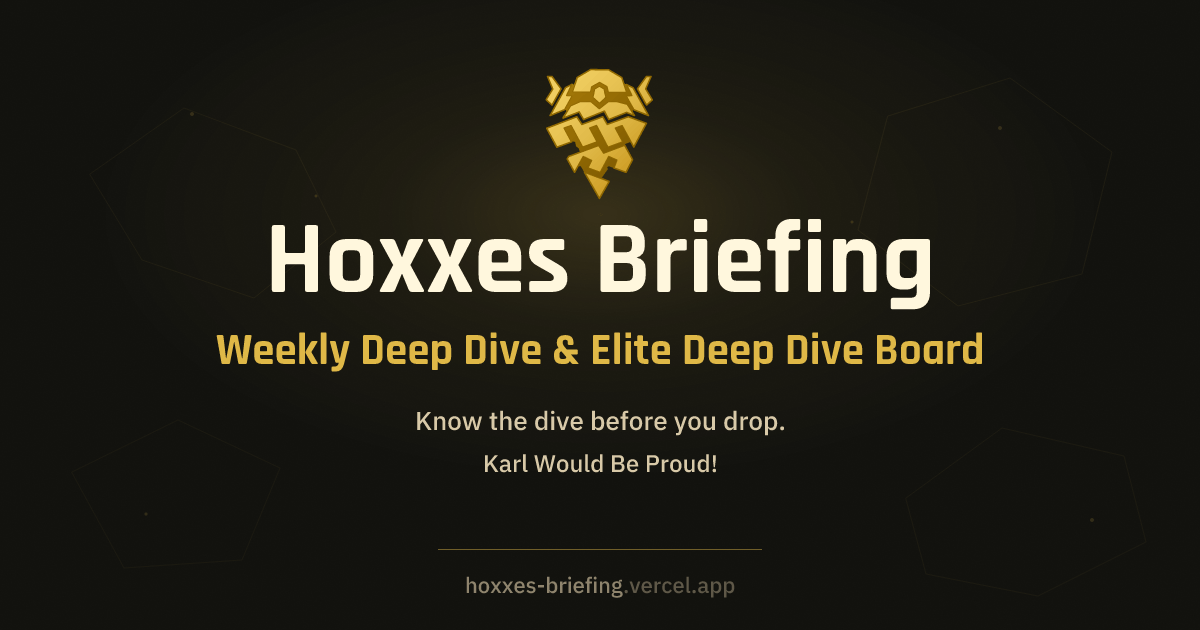
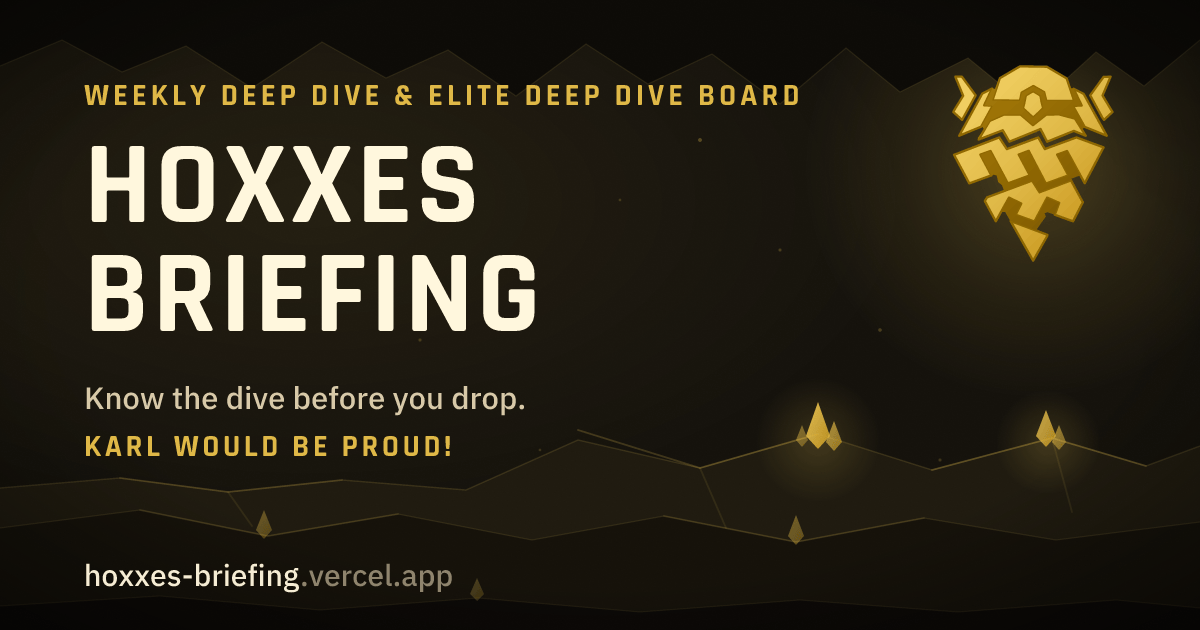
feat(web): redesign og-image as cave strata composition

diff --git a/apps/web/scripts/generate-og-image.ts b/apps/web/scripts/generate-og-image.ts
@@ -7,12 +7,13 @@ import satori from 'satori'
 
 const width = 1200
 const height = 630
-const background = '#11110d'
+const background = '#14110b'
 const textPrimary = '#fff7dd'
 const textSecondary = '#d8c9a8'
 const textMuted = '#8f846d'
-const textFaint = '#5f5848'
 const gold = '#dfb847'
+const goldBright = '#f0ce61'
+const goldDeep = '#c9971d'
 const parchment = '#f5ecd4'
 const rajdhani = 'Rajdhani'
 const ibmPlexSans = 'IBM Plex Sans'
@@ -53,7 +54,6 @@ const [rajdhaniBold, plexMedium, emblemSvg] = await Promise.all([
 ])
 
 const emblemSrc = svgDataUri(emblemSvg)
-const backgroundSrc = svgDataUri(renderBackgroundTexture())
 const svg = await satori(renderOpenGraphImage(emblemSrc) as Parameters<typeof satori>[0], {
   width,
   height,
@@ -108,127 +108,140 @@ function renderOpenGraphImage(emblemSrc: string): SatoriElement {
       },
     },
     h('img', {
-      src: backgroundSrc,
+      src: svgDataUri(renderCaveTexture()),
       width,
       height,
-      style: {
-        position: 'absolute',
-        left: 0,
-        top: 0,
-        display: 'flex',
-      },
+      style: { position: 'absolute', left: 0, top: 0, display: 'flex' },
     }),
     h('img', {
       src: emblemSrc,
-      width: 112,
-      height: 132,
-      style: {
-        position: 'absolute',
-        top: 68,
-        left: 544,
-        display: 'flex',
-      },
+      width: 168,
+      height: 199,
+      style: { position: 'absolute', top: 64, left: 950, display: 'flex' },
     }),
     h(
       'div',
       {
         style: {
           position: 'absolute',
-          top: 214,
-          left: 0,
-          right: 0,
+          top: 80,
+          left: 84,
           display: 'flex',
           flexDirection: 'column',
-          alignItems: 'center',
         },
       },
       h(
         'div',
         {
           style: {
-            display: 'flex',
-            color: textPrimary,
-            fontFamily: rajdhani,
-            fontSize: 104,
-            lineHeight: 0.92,
-          },
-        },
-        title,
-      ),
-      h(
-        'div',
-        {
-          style: {
-            marginTop: 18,
             display: 'flex',
             color: gold,
             fontFamily: rajdhani,
-            fontSize: 45,
+            fontWeight: 700,
+            fontSize: 31,
+            letterSpacing: 4,
             lineHeight: 1,
+            whiteSpace: 'nowrap',
           },
         },
-        subtitle,
+        subtitle.toUpperCase(),
       ),
       h(
         'div',
         {
           style: {
-            marginTop: 30,
+            marginTop: 22,
             display: 'flex',
             flexDirection: 'column',
-            alignItems: 'center',
-            color: textSecondary,
-            fontFamily: ibmPlexSans,
-            fontSize: 26,
-            lineHeight: 1.32,
+            color: textPrimary,
+            fontFamily: rajdhani,
+            fontWeight: 700,
+            fontSize: 118,
+            lineHeight: 0.92,
+            letterSpacing: 3,
           },
         },
-        h('div', { style: { display: 'flex', fontSize: 26 } }, description),
-        h('div', { style: { display: 'flex', marginTop: 10, fontSize: 24 } }, slogan),
+        ...title
+          .toUpperCase()
+          .split(' ')
+          .map((line) => h('div', { style: { display: 'flex' } }, line)),
+      ),
+      h(
+        'div',
+        {
+          style: {
+            marginTop: 26,
+            display: 'flex',
+            flexDirection: 'column',
+          },
+        },
+        h(
+          'div',
+          { style: { display: 'flex', fontFamily: ibmPlexSans, fontSize: 31, color: textSecondary, lineHeight: 1.3 } },
+          description,
+        ),
+        h(
+          'div',
+          {
+            style: {
+              marginTop: 14,
+              display: 'flex',
+              color: gold,
+              fontFamily: rajdhani,
+              fontWeight: 700,
+              fontSize: 31,
+              letterSpacing: 3.5,
+              lineHeight: 1,
+            },
+          },
+          slogan.toUpperCase(),
+        ),
       ),
     ),
-    h('div', {
-      style: {
-        position: 'absolute',
-        left: 438,
-        right: 438,
-        bottom: 80,
-        height: 1,
-        display: 'flex',
-        backgroundColor: 'rgba(223, 184, 71, 0.46)',
-      },
-    }),
     h(
       'div',
       {
         style: {
           position: 'absolute',
-          left: 0,
-          right: 0,
-          bottom: 34,
+          left: 84,
+          bottom: 40,
           display: 'flex',
-          justifyContent: 'center',
-          alignItems: 'center',
-          color: textMuted,
           fontFamily: ibmPlexSans,
-          fontSize: 22,
+          fontSize: 30,
           lineHeight: 1,
         },
       },
-      h('div', { style: { display: 'flex' } }, domainName),
-      h('div', { style: { display: 'flex', color: textFaint } }, domainSuffix),
+      h('div', { style: { display: 'flex', color: parchment } }, domainName),
+      h('div', { style: { display: 'flex', color: textMuted } }, domainSuffix),
     ),
   )
 }
 
-function renderBackgroundTexture(): string {
+function renderCaveTexture(): string {
   return `
 <svg xmlns="http://www.w3.org/2000/svg" width="${width}" height="${height}" viewBox="0 0 ${width} ${height}">
   <defs>
-    <radialGradient id="gold-glow" cx="50%" cy="34%" r="42%">
-      <stop offset="0%" stop-color="${gold}" stop-opacity="0.18"/>
-      <stop offset="42%" stop-color="${gold}" stop-opacity="0.06"/>
+    <radialGradient id="title-glow" cx="26%" cy="32%" r="50%">
+      <stop offset="0%" stop-color="${goldBright}" stop-opacity="0.07"/>
       <stop offset="100%" stop-color="${gold}" stop-opacity="0"/>
+    </radialGradient>
+    <radialGradient id="emblem-glow" cx="50%" cy="50%" r="50%">
+      <stop offset="0%" stop-color="${goldBright}" stop-opacity="0.24"/>
+      <stop offset="60%" stop-color="${gold}" stop-opacity="0.08"/>
+      <stop offset="100%" stop-color="${gold}" stop-opacity="0"/>
+    </radialGradient>
+    <radialGradient id="pocket-glow" cx="50%" cy="50%" r="50%">
+      <stop offset="0%" stop-color="${goldBright}" stop-opacity="0.16"/>
+      <stop offset="100%" stop-color="${gold}" stop-opacity="0"/>
+    </radialGradient>
+    <linearGradient id="crystal" x1="0" y1="0" x2="1" y2="1">
+      <stop offset="0%" stop-color="${goldBright}"/>
+      <stop offset="100%" stop-color="${goldDeep}"/>
+    </linearGradient>
+    <radialGradient id="vignette" cx="50%" cy="46%" r="74%">
+      <stop offset="0%" stop-color="#000000" stop-opacity="0"/>
+      <stop offset="62%" stop-color="#000000" stop-opacity="0"/>
+      <stop offset="100%" stop-color="#000000" stop-opacity="0.52"/>
     </radialGradient>
     <filter id="grain" x="0" y="0" width="100%" height="100%">
       <feTurbulence type="fractalNoise" baseFrequency="0.78" numOctaves="3" seed="27" stitchTiles="stitch"/>
@@ -239,24 +252,60 @@ function renderBackgroundTexture(): string {
     </filter>
   </defs>
 
-  <rect width="${width}" height="${height}" fill="url(#gold-glow)"/>
+  <rect width="${width}" height="${height}" fill="url(#title-glow)"/>
+  <circle cx="1034" cy="168" r="230" fill="url(#emblem-glow)"/>
+
+  <path d="M0 0 H1200 V40 L1144 86 L1096 52 L1032 110 L968 58 L900 92 L846 48 L780 104 L712 54 L648 84 L586 44 L516 96 L448 50 L386 78 L322 42 L252 88 L186 46 L122 72 L62 40 L0 66 Z" fill="#0c0a06"/>
+  <path d="M0 66 L62 40 L122 72 L186 46 L252 88 L322 42 L386 78 L448 50 L516 96 L586 44 L648 84 L712 54 L780 104 L846 48 L900 92 L968 58 L1032 110 L1096 52 L1144 86 L1200 40" fill="none" stroke="${goldBright}" stroke-width="1.2" opacity="0.1"/>
+  <g fill="url(#crystal)">
+    <path d="M1032 110 l8 0 -4 24Z" opacity="0.45"/>
+  </g>
+
+  <path d="M0 488 L120 478 L228 492 L342 480 L466 490 L578 440 L700 468 L818 434 L932 470 L1052 438 L1146 466 L1200 446 V630 H0 Z" fill="#1f1a0f"/>
+  <path d="M0 488 L120 478 L228 492 L342 480 L466 490 L578 440 L700 468 L818 434 L932 470 L1052 438 L1146 466 L1200 446" fill="none" stroke="${goldBright}" stroke-width="1.4" opacity="0.14"/>
+
+  <path d="M0 528 L140 510 L268 536 L398 514 L532 540 L664 516 L796 542 L924 518 L1056 540 L1200 522 V630 H0 Z" fill="#151109"/>
+  <path d="M0 528 L140 510 L268 536 L398 514 L532 540 L664 516 L796 542 L924 518 L1056 540 L1200 522" fill="none" stroke="${goldBright}" stroke-width="1.2" opacity="0.11"/>
+
+  <path d="M0 606 L160 596 L320 610 L478 598 L640 612 L800 600 L958 612 L1116 600 L1200 608 V630 H0 Z" fill="#0b0806"/>
+  <path d="M0 606 L160 596 L320 610 L478 598 L640 612 L800 600 L958 612 L1116 600 L1200 608" fill="none" stroke="${goldBright}" stroke-width="1.2" opacity="0.07"/>
+
+  <g fill="none" stroke="${gold}" stroke-linecap="round" stroke-width="1.8">
+    <path d="M120 478 L228 492 L342 480" opacity="0.14"/>
+    <path d="M578 430 L700 468 L818 434" opacity="0.22"/>
+    <path d="M932 470 L1052 438 L1146 466" opacity="0.22"/>
+    <path d="M140 510 L268 536 L398 514" opacity="0.12"/>
+    <path d="M664 516 L796 542 L924 518" opacity="0.12"/>
+    <path d="M228 492 L252 526 M700 468 L726 528 M1052 438 L1072 512" opacity="0.1"/>
+  </g>
+
+  <circle cx="818" cy="440" r="62" fill="url(#pocket-glow)"/>
+  <circle cx="1048" cy="442" r="52" fill="url(#pocket-glow)"/>
+
+  <g fill="url(#crystal)">
+    <path d="M806 436 l12 -34 12 34 -12 13Z" opacity="0.9"/>
+    <path d="M826 442 l8 -21 8 21 -8 9Z" opacity="0.65"/>
+    <path d="M796 440 l6 -15 6 15 -6 7Z" opacity="0.45"/>
+    <path d="M1036 436 l10 -26 10 26 -10 11Z" opacity="0.8"/>
+    <path d="M1052 442 l7 -17 7 17 -7 8Z" opacity="0.55"/>
+    <path d="M256 530 l8 -20 8 20 -8 9Z" opacity="0.35"/>
+    <path d="M788 536 l8 -21 8 21 -8 9Z" opacity="0.4"/>
+    <path d="M470 594 l7 -16 7 16 -7 7Z" opacity="0.25"/>
+  </g>
+
+  <g fill="${gold}">
+    <circle cx="700" cy="140" r="2" opacity="0.3"/>
+    <circle cx="780" cy="250" r="1.6" opacity="0.24"/>
+    <circle cx="620" cy="200" r="1.4" opacity="0.2"/>
+    <circle cx="880" cy="330" r="1.8" opacity="0.26"/>
+    <circle cx="420" cy="340" r="1.6" opacity="0.22"/>
+    <circle cx="540" cy="450" r="1.4" opacity="0.18"/>
+    <circle cx="940" cy="460" r="1.6" opacity="0.2"/>
+    <circle cx="180" cy="300" r="1.4" opacity="0.18"/>
+  </g>
+
   <rect width="${width}" height="${height}" fill="${parchment}" opacity="0.18" filter="url(#grain)"/>
-
-  <g fill="none" stroke="${gold}" stroke-linecap="round" stroke-linejoin="round">
-    <path d="M90 174 184 108 296 150 336 232 254 298 142 260Z" opacity="0.055"/>
-    <path d="M888 116 1010 78 1112 152 1082 274 958 306 858 230Z" opacity="0.06"/>
-    <path d="M906 498 1002 428 1124 456 1146 542 1038 596 926 574Z" opacity="0.05"/>
-    <path d="M72 472 178 420 280 468 242 560 124 568Z" opacity="0.045"/>
-  </g>
-
-  <g fill="${gold}" opacity="0.16">
-    <circle cx="192" cy="114" r="2"/>
-    <circle cx="1000" cy="128" r="2"/>
-    <circle cx="1092" cy="520" r="2"/>
-    <circle cx="146" cy="514" r="1.6"/>
-    <circle cx="316" cy="196" r="1.5"/>
-    <circle cx="852" cy="222" r="1.5"/>
-  </g>
+  <rect width="${width}" height="${height}" fill="url(#vignette)"/>
 </svg>`
 }
 
